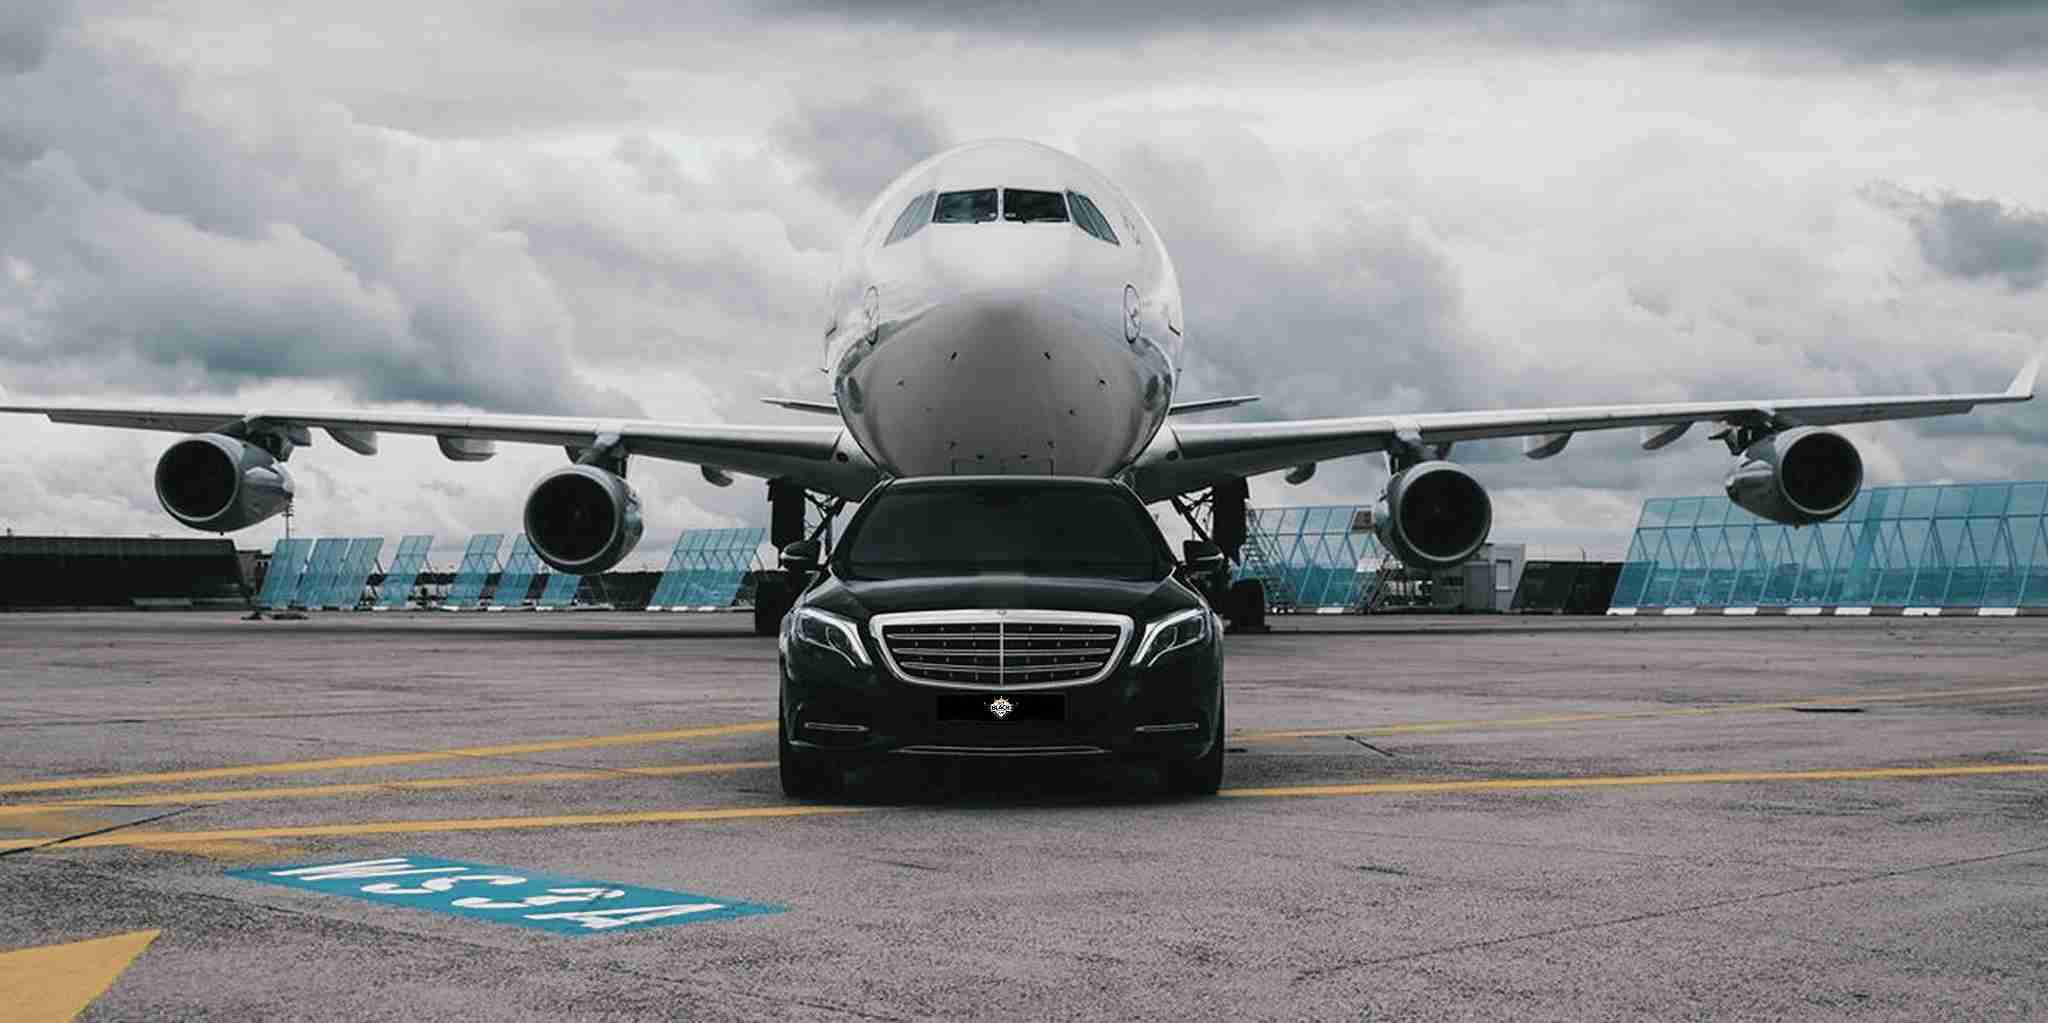
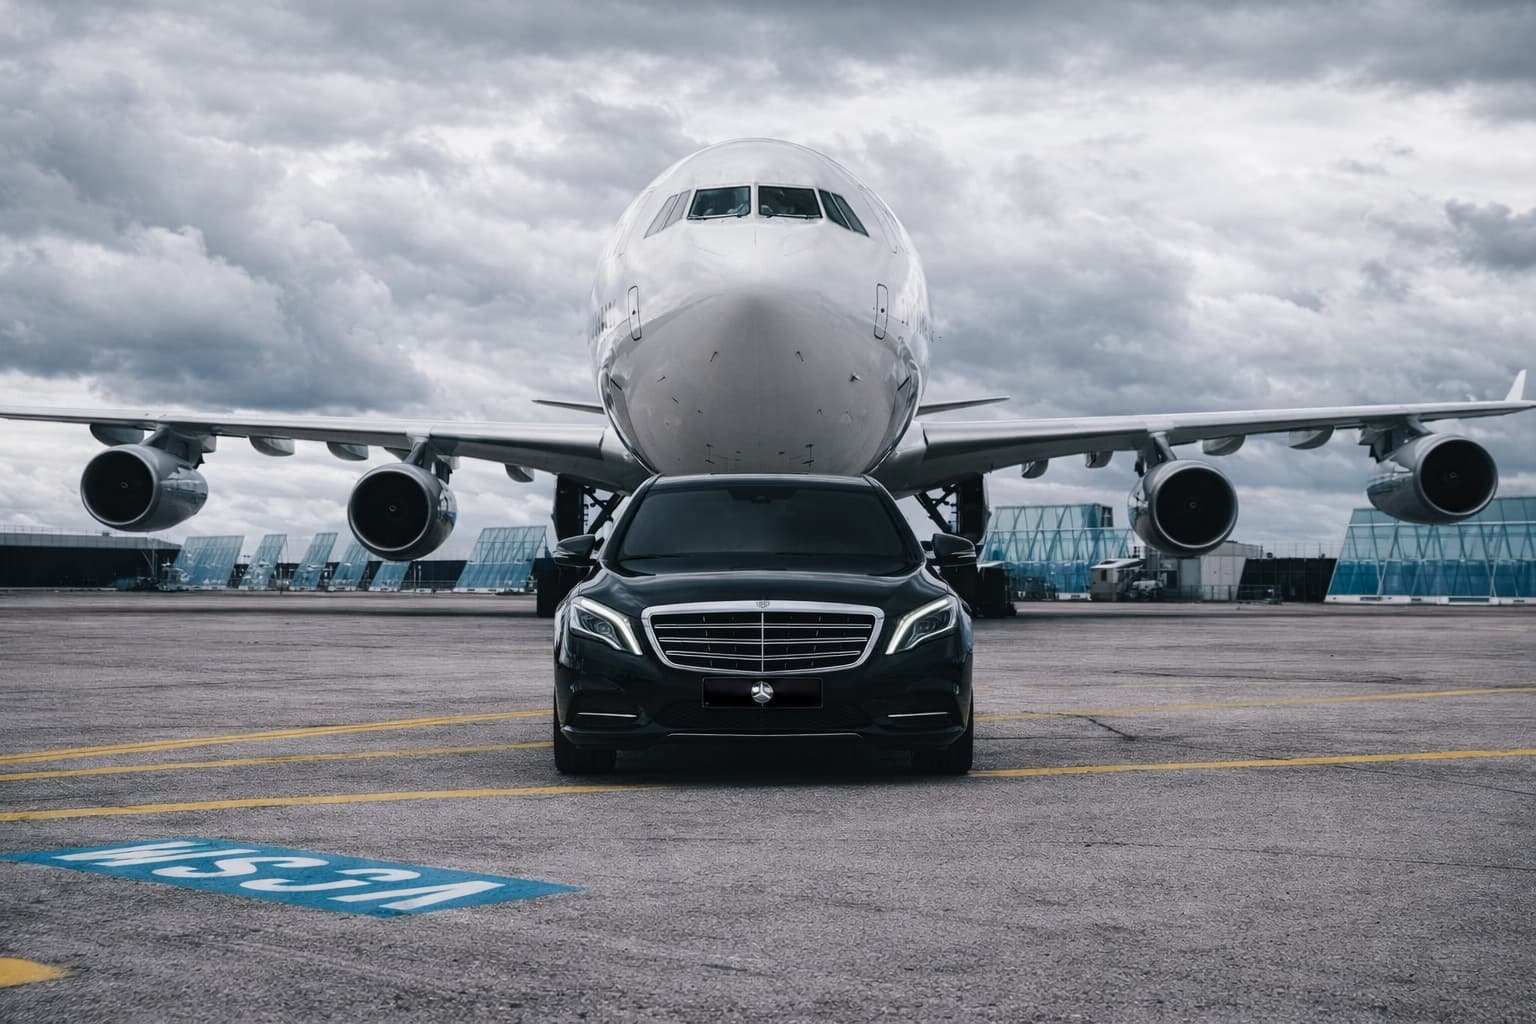
service pages

diff --git a/src/app/service/corporate-travel/page.tsx b/src/app/service/corporate-travel/page.tsx
@@ -1,5 +1,9 @@
+import Button from '@/button/Button';
+import Section1 from '@/components/Servicespage/Services/section1';
 import Services from '@/components/Servicespage/Services/Services';
+import ServicesBanner from '@/components/Servicespage/Services/ServicesBanner';
 import { Metadata } from 'next';
+import Link from 'next/link';
 import React from 'react';
 export const metadata: Metadata = {
     title: "Corporate Luxury Car Service in New York | Professional Chauffeurs | Elite B Car",
@@ -71,12 +75,79 @@ Choose Elite for an Executive travel experience, which is defined by punctuality
             "Trained professional ChauffeurElite car service New York",
 
         ],
-        image: "/images/services3-min.png"
+        image: "/images/services3-min.jpg"
     };
     return (
         <div>
-            <Services {...airportTransferData} />
-        </div>
+            <ServicesBanner pagename='Corporate Travel' bgimage='/images/aboutusbanner.jpg'
+                text='It is an opportunity for travellers to create new business relationships and foster new business growth ideas.The way you arrive indicates the tone for your business meeting when you travel with comfort and class. Elite B Car provides top-tier <b> corporate black car luxury services</b> for its clients whose priority is reliability, discretion, and exceptional convenience while travelling.Whether you are heading towards airport transfers, client meetings, or business conferences, we provide<b>  reliable chauffeur-driven vehicles </b>that match your corporate standards. You have an option toconvert your travel hours into productive hours with our expert chauffeurs and a top-class amenities fleet.For all your corporate travel needs, whether it is your key meeting or your big events, Elite B car is there for you toenhance your professional image.We specialise in delivering exceptional corporate travel solutions across New York and beyond, as our main purpose is toensure our executives and business travellers receive a consistently smooth, comfortable, and trustworthy experience.<br />
+                <b> From luxury sedans to spacious SUVs, each vehicle is equipped with comfortable seating, Wi-Fi connectivity, and a soothing travel experience. </b>Every ride with Elite B Car is designed to impress, providing your team and guests with a premium, well-managed travel experience from pickup to drop-off. 
+'
+            />
+            {/* <Services {...airportTransferData} /> */}
+            <section className='text-center py-16 px-4 border-t border-black/20 ' >
+                <div className="max-w-[600px] mx-auto">
+                    <h2>Why Choose Elite for Corporate Travel?</h2>
+                    <p className='mt-4'>Elite provides an <b> executive-grade travel</b> with <b> premium chauffeur-driven vehicles</b> to make your journey smooth for an uninterrupted travel experience.</p>
+                </div>
+            </section >
+            <div className='space-y-20 pb-20'>
+                <Section1
+                    order="order-1"
+                    orderText="order-2"
+                    heading="Our Luxury Services Include:"
+                    text="•	<b> Executive black car services. </b></br>
+                •	Reliable On-time pick-up and drop-off with live tracking facility.</br>
+                •	<b> Premium airport chauffeur service</b></br>
+                •	Safeguarding VIPs and delegates' travel through enhanced security protocols.</br>
+                •	All cars have Wi Fi with charging ports & a<b> premium in-cabin experience. </b></br>
+                •	<b> Private Executive car Service in New York and beyond. </b></br>
+                •	Streamlined travel plans for meetings, conferences & corporate events</br>
+                •	Round-the-clock support for all your travel needs. "
+                />
+                <Section1
+                    order="order-2"
+                    orderText="order-1"
+                    heading="Perfect for Corporate Needs"
+                    text="  •	Business Meetings or conferences.</br>
+                        •	Airport Transfers</br>
+                        •	Corporate Events</br>
+                        •	Employee & Delegation Travel</br>
+                        •	VIP & Executive Travel<br /><br /> "
+                />
+                <Section1
+                    order="order-1"
+                    orderText="order-2"
+                    heading="Luxury Fleet for Corporate Travel"
+                    text=" Elite offers a<b>  premium fleet of well-maintained, high-performance vehicles, </b> including:</br></br>
+                •	Executive Sedans</br>
+                •	Luxury SUVs</br>
+                •	Business Vans</br>
+                •	Premium Limousines</br>
+                •	Elite Class Chauffeur Cars<br /><br />
+                Our amenity-rich fleet gives you a comfortable and quiet environment for a productive journey with peace of mind. "
+                />
+                <Section1
+                    order="order-2"
+                    orderText="order-1"
+                    heading="Benefits of Choosing Elite"
+                    text=" •  Vetted professional chauffeurs who are committed to your privacy.</br>
+                        • Transparent business pricing options available.</br>
+                        •  Ensuring a pristine environment with high standards of hygiene and a welcoming space.</br>
+                        • Flexible booking options that match your business needs.</br>
+                        • Everytouch point resonates with your brand identity and image.  "
+                />
+            </div>
+            <section className='text-center py-16 px-4 border-t border-black/20 ' >
+                <div className="max-w-[800px] mx-auto">
+                    <h2>Experience a Higher Standard of Business Travel</h2>
+                    <p>We specialise in curating travel experiences that should meet the exacting standards of our distinguished clients. Our motto is to provide more than just transportation. We create a luxurious travel environment for your utmost comfort, seamless workflow, and uncompromising privacy. Choose Elite for an Executive travel experience, which is defined by punctuality, dignity and absolute comfort. So next time, whenever you want to book a corporate ride, choose only Elite B car <b> corporate traveller services for luxury travel.</b></p>
+                    <Link href="https://book.mylimobiz.com/v4/eliteblackcar" className='inline-block'>   <Button text="Book Now" color="text-white" bg="bg-dark" hoverbg="hover:bg-orange" /></Link>
+
+                </div>
+            </section >
+        </div >
+
     );
 }
 

diff --git a/src/app/service/airport-transfers/page.tsx b/src/app/service/airport-transfers/page.tsx
@@ -1,5 +1,10 @@
+import Bannersall from '@/banners/Bannersall';
+import Button from '@/button/Button';
+import Section1 from '@/components/Servicespage/Services/section1';
 import Services from '@/components/Servicespage/Services/Services';
+import ServicesBanner from '@/components/Servicespage/Services/ServicesBanner';
 import { Metadata } from 'next';
+import Link from 'next/link';
 import React from 'react';
 
 export const metadata: Metadata = {
@@ -48,12 +53,68 @@ Book your <b> Elite airport transfer in NYC</b>  today. With the<b>  Elite B Car
       "Best airport car service JFK",
       "Best luxury car service New York"
     ],
-    image: "/images/services1-min.png"
+    image: "/images/services1-min.jpg"
   };
   return (
-    <div>
-      <Services {...airportTransferData} />
-    </div>
+    <div className='space-y-20'>
+      <ServicesBanner pagename='Airport Transfers' bgimage='/images/aboutusbanner.jpg'
+        text='Known for being the <b> best luxury car service</b>  in the region,our airport
+         transfer services are designed in such a way that they provide timely pick-ups and 
+         drop-offs from your location, and at your location, which makes travel without any 
+         delay. With our <b> best airport transfer service, JFK, </b> you can count onit to 
+         handle your airport journeys efficiently. Whether you are arriving at or departing
+          from <b> JFK, LaGuardia, or Newark Airport</b>, our<b>  professional chauffeurs</b>  
+          ensure a smooth, punctual, and stress-free ride. We specialise in providing <b>
+           elite car service in NYC</b>  for travellers who value reliability, safety, and class
+              At <b> Elite B Car, </b> we specialise in providing <b> luxury airport transfer 
+              services in New York</b>  that ensure comfort, punctuality, and a premium travel
+               experience. Being the <b> best luxury airport car service in New York, </b>  
+               we ensure every transfer is seamless—from real-time flight updates to professional
+                airport assistance. Our motto is to make your journey a smooth, reliable, 
+                and stress-free airport transportation experience.'
+      />
+      {/* <Services {...airportTransferData} /> */}
+
+      <Section1
+        order="order-1"
+        orderText="order-2"
+        heading="Reliable Airport Transfers Designed Around Your Schedule"
+        text='Flight delays and early-morning departures are no problem for us. 
+         Real-time flight tracking by our team ensures your chauffeur is ready 
+         the moment you arrive.With our dependable <b> JFK and LaGuardia airport 
+         transfer services</b>, travellers can easily enjoy a complete peace of 
+         mind with stress stress-free environment as Elite B Car removes the 
+         stress of long queues, all of sudden cancellations, and ride-hailing 
+         uncertainties. Available 24/7, we have become the trusted choice for 
+         international visitors, business professionals, and families.  '
+      />
+      <Section1
+        order="md:order-2"
+        orderText="md:order-1"
+        heading="Luxury Fleet for a Comfortable Airport Journey"
+        text='Whether you are travelling solo or in a big group, Elite B Car offers a refined collection of premium black cars, luxury sedans, executive SUVs, and comfortable vans that suit your style. All our fleet is fully maintained andsanitised, and possess with modern features that providetop-class comfort.Experience the true meaning of comfort and elegance with our premium airport car service in NYC. From professional chauffeurs to sophisticated interiors, generous luggage space, and a soothing ride environment, it helps you just unwind your travel stress effortlessly.Our chauffeurs are expertly trained, impeccably polite, and well-versed with all New York airport routes. Our priority is to make your airport transfer journey a peaceful one.  '
+      />
+      <Section1
+        order="order-1"
+        orderText="order-2"
+        heading="Why Choose Elite B Car Airport Transfers?"
+        text='•	<b> Best Luxury Car Service in NYC</b>  – Travel in style with our diverse range of premium vehicles.</br>
+        •	<b> JFK Luxury Car Service</b>  – Proactive JFK airport pickups and drop-offs with real-time flight monitoring to avoid any waiting time.</br>
+        •	<b> Elite Car Service New York</b>  – Serving all major airports, including JFK, LaGuardia, Newark, and beyond.</br>
+        •	<b> Professional Chauffeurs</b>  – Proficient and dedicated drivers whose major focus is onclient satisfaction.</br>
+        •	<b> On-Time Guarantee</b>   – Guaranteed on-time departures.</br>
+        •	<b> 24/7 Availability</b>  – Reliable 24/7 airport transfer service for seamless airport transfer.</br>
+        •	<b> Safe & Comfortable Ride</b> – Maintain the highest hygiene standards for your safe and secure journey.  '
+      />
+      <section className='text-center py-16 px-4 border-t border-black/20 ' >
+        <div className="max-w-[800px] mx-auto">
+          <p>Book your <b> Elite airport transfer in NYC</b>  today. With the<b>  Elite B Car</b>, step into the world of unrivalled sophistication and relaxation. </p>
+          <p>
+            So, whenever you book your next<b>  airport transfer in New York, </b> choose only Elite B Car, and enjoy a journeythat is truly a combination of elegance, comfort, and dependability.</p>
+
+        </div>
+      </section >
+    </div >
   );
 }
 

diff --git a/src/components/region/Region.tsx b/src/components/region/Region.tsx
@@ -35,13 +35,13 @@ const Region: React.FC = () => {
                         className={`region-images flex gap-4 transition-transform duration-500 h-[500px] md:h-[700px] `}
                     >
                         <div className="flex-1 w-full overflow-hidden rounded">
-                            <img loading="lazy" src="/images/region1.png " className={` object-cover rounded transition-transform duration-500 h-full ${scrollDirection === "down" ? "translate-y-5" : "-translate-y-5"
+                            <img loading="lazy" src="/images/region1.jpg " className={` object-cover rounded transition-transform duration-500 h-full ${scrollDirection === "down" ? "translate-y-5" : "-translate-y-5"
                                 }`} alt="d" />
                         </div>
                         <div className="region-image2 flex gap-4 overflow-hidden rounded flex-col flex-1">
-                            <img loading="lazy" src="/images/region2.png" className={` object-cover rounded transition-transform duration-500 h-full max-h-[50%] ${scrollDirection === "down" ? "translate-y-5" : "-translate-y-5"
+                            <img loading="lazy" src="/images/region2.jpg" className={` object-cover rounded transition-transform duration-500 h-full max-h-[50%] ${scrollDirection === "down" ? "translate-y-5" : "-translate-y-5"
                                 }`} alt="d" />
-                            <img loading="lazy" src="/images/region3.png" className={` object-cover rounded transition-transform duration-500 h-full max-h-[50%] ${scrollDirection === "down" ? "translate-y-5" : "-translate-y-5"
+                            <img loading="lazy" src="/images/region3.jpg" className={` object-cover rounded transition-transform duration-500 h-full max-h-[50%] ${scrollDirection === "down" ? "translate-y-5" : "-translate-y-5"
                                 }`} alt="d" />
                         </div>
                     </div>

diff --git a/src/components/Servicespage/Services/ServicesBanner.tsx b/src/components/Servicespage/Services/ServicesBanner.tsx
@@ -1,0 +1,54 @@
+"use client"
+import Button from '@/button/Button';
+import Link from 'next/link';
+import React, { useEffect, useRef } from 'react';
+
+type BannersallProps = {
+    pagename: string,
+    text: string,
+    bgimage: string
+
+}
+const ServicesBanner: React.FC<BannersallProps> = ({ pagename, bgimage, text }) => {
+    const bannerRef = useRef<HTMLDivElement>(null);
+
+    useEffect(() => {
+        const handleScroll = () => {
+            const scrollX = window.scrollY * 0.3; // Adjust speed here
+            if (bannerRef.current) {
+                bannerRef.current.style.backgroundPosition = `${-scrollX}px center`;
+            }
+        };
+
+        window.addEventListener('scroll', handleScroll);
+        return () => window.removeEventListener('scroll', handleScroll);
+    }, []);
+
+    return (
+        <div className="bg-dark relative overflow-hidden px-4 flex items-end pb-28 pt-40 justify-center md:h-screen overflow-hidden">
+            <div className="text-white relative text-center z-40 px-4  container">
+                <h2 className='max-w-[800px] mx-auto'>{pagename}</h2>
+                <p className=" mt-4 max-w-[1000px] mx-auto gap-3 " dangerouslySetInnerHTML={{ __html: text }}>
+
+                </p>
+                <Link href="https://book.mylimobiz.com/v4/eliteblackcar" className='inline-block'>
+                    <Button text="Book Now" color="text-white" bg="bg-dark" hoverbg="hover:bg-orange" />
+                </Link>
+
+            </div>
+
+            <div
+                ref={bannerRef}
+                className="w-[130%] brightness-[50%]  top-0 right-0 left-0 bottom-0 absolute  bg-no-repeat bg-cover"
+                style={{
+                    backgroundImage: `url(${bgimage})`,
+                    backgroundPosition: '0 center',
+                }}
+            >
+
+            </div>
+        </div>
+    );
+};
+
+export default ServicesBanner;

diff --git a/src/components/Servicespage/Services/section1.tsx b/src/components/Servicespage/Services/section1.tsx
@@ -1,0 +1,35 @@
+import Button from '@/button/Button';
+import Link from 'next/link';
+import React, { FC } from 'react';
+type DataSection = {
+    order?: string;
+    orderText: string;
+    heading: string;
+    text: string
+}
+const Section1: FC<DataSection> = ({ order, orderText, heading, text }) => {
+    return (
+        <div>
+            <section className='px-4 '>
+                <div className="container">
+                    <div className='grid gap-10 items-center md:grid-cols-2'>
+                        <div className={order}>
+
+                            <h2 >{heading}</h2>
+                            <div className='w-32 mt-4 h-1 bg-orange border-rounded'></div>
+                            <div className='my-4' dangerouslySetInnerHTML={{ __html: text }}></div>
+
+                            <Link href="https://book.mylimobiz.com/v4/eliteblackcar">   <Button text="Book Now" color="text-white" bg="bg-dark" hoverbg="hover:bg-orange" /></Link>
+
+                        </div>
+                        <div className={orderText}>
+                            <img src="/images/services1-min.jpg" className='rounded-xl' alt="image" />
+                        </div>
+                    </div>
+                </div>
+            </section >
+        </div >
+    );
+}
+
+export default Section1;

diff --git a/src/components/services/Services.tsx b/src/components/services/Services.tsx
@@ -11,20 +11,20 @@ const servicedatamain = [
         "title": "Airport Transfers",
         "url":"/airport-transfers",
         "description": "Travelling to and from the airport must be hassle-free...",
-        "image": "/images/services1-min.png"
+        "image": "/images/services1-min.jpg"
     },
     {
         "id": 2,
         "title": "City Tours",
            "url":"/city-tours",
         "description": "Experience the beauty and culture of your city like never before...",
-        "image": "/images/services2-min.png" },
+        "image": "/images/services2-min.jpg" },
     {
         "id": 3,
         "title": "Corporate Travel",
            "url":"/corporate-travel",
         "description": "At Elite B Car, we understand that business travel is not merely a trip...",
-        "image": "/images/services3-min.png"}
+        "image": "/images/services3-min.jpg"}
 
     ]
 

diff --git a/src/components/fleet/Fleet.tsx b/src/components/fleet/Fleet.tsx
@@ -12,7 +12,7 @@ const fleetData = [
     id: 1,
     name: "Premium Luxury SUV",
     description: "Chevrolet Suburban",
-    image: "/images/subarban.png",
+    image: "/images/subarban.jpg",
     passengers: 6,
     luggage: 6,
   },
@@ -20,7 +20,7 @@ const fleetData = [
     id: 2,
     name: "Small SUV",
     description: "Cadilac XT6 ",
-    image: "/images/Ourfleet2-min.png",
+    image: "/images/Ourfleet2-min.jpg",
     passengers: 3,
     luggage: 4,
   },
@@ -28,7 +28,7 @@ const fleetData = [
     id: 3,
     name: "Luxury Sedan",
     description: "Cadilac XTS ",
-    image: "/images/Ourfleet3-min1.jpeg",
+    image: "/images/Ourfleet3-min1.jpg",
     passengers: 2,
     luggage: 2,
   },

diff --git a/src/app/service/city-tours/page.tsx b/src/app/service/city-tours/page.tsx
@@ -1,3 +1,4 @@
+import Bannersall from '@/banners/Bannersall';
 import Services from '@/components/Servicespage/Services/Services';
 import { Metadata } from 'next';
 import React from 'react';
@@ -30,10 +31,11 @@ const Page = () => {
             "Elite car service NYC",
             "Elite luxury car service NYC"
         ],
-        image: "/images/services2-min.png"
+        image: "/images/services2-min.jpg"
     };
     return (
         <div>
+            <Bannersall pagename='City Tours' bgimage='/images/aboutusbanner.jpg' />
             <Services {...airportTransferData} />
         </div>
     );

diff --git a/src/components/toproutesf/Toproutes.tsx b/src/components/toproutesf/Toproutes.tsx
@@ -12,21 +12,21 @@ const Toproutesdata = [
         id: 2,
         City1: "NYC",
         City2: "Hamptons",
-        image: "/images/Toproutes2.png"
+        image: "/images/Toproutes2.jpg"
 
     },
     {
         id: 3,
         City1: "NYC",
         City2: "Boston",
-        image: "/images/Toproutes3.png"
+        image: "/images/Toproutes3.jpg"
 
     },
     {
         id: 4,
         City1: "JKF",
         City2: "Philadelphia",
-        image: "/images/Toproutes4.png"
+        image: "/images/Toproutes4.jpg"
     }
 ]
 const Toproutes = () => {

diff --git a/src/banners/Bannersall.tsx b/src/banners/Bannersall.tsx
@@ -26,7 +26,7 @@ const Bannersall: React.FC<BannersallProps> = ({pagename,bgimage}) => {
             <div className="text-white relative z-40 px-4  container">
                 <h2>{pagename}</h2>
                 <p className="flex mt-4 gap-3 items-center">
-                    Home <span className="text-sm">{'>'}</span> {pagename}
+                    Home <span className="text-sm">{'>'}</span>{pagename}
                 </p>
             </div>
 
